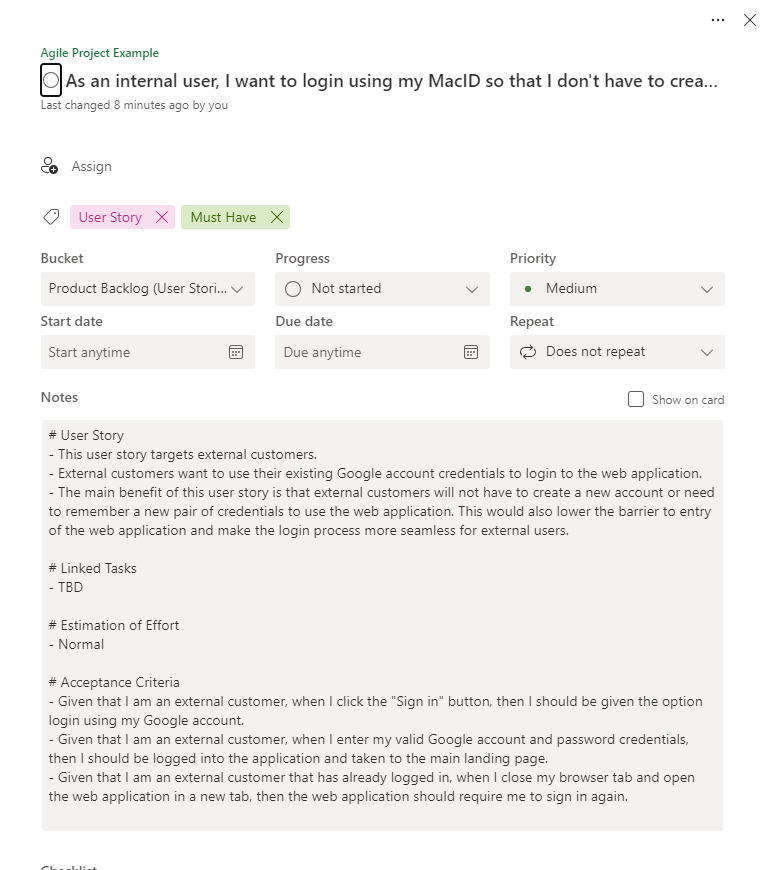
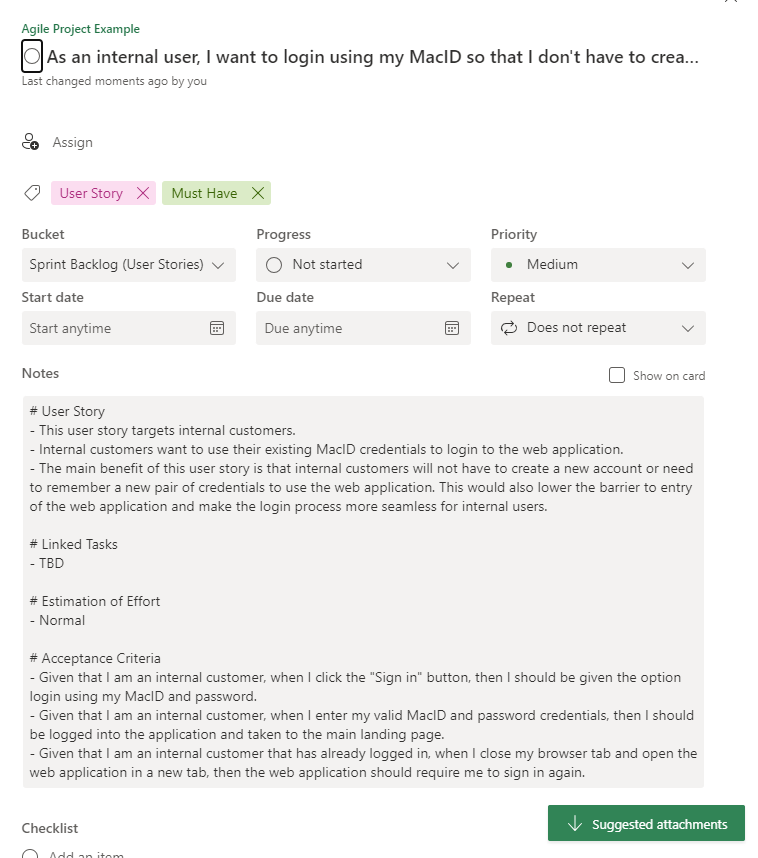
added blurb about GitLab

diff --git a/planner-agile.md b/planner-agile.md
@@ -107,13 +107,13 @@ We recommend that you fill out the body of the user story using the following te
 - Acceptance criteria should use the following format: "Given (how things begin), when (action taken), then (outcome of taking action)."	
 ```
 
-We will add the same MacID SSO user story that we used before as an example:
+We will add the same MacID SSO user story that we used before as an example. The title of the user story is: "As an internal user, I want to login using my MacID so that I don't have to create a separate account." and the body should contain the following:
 
 ```
 # User Story
-- This user story targets external customers.
-- External customers want to use their existing Google account credentials to login to the web application.
-- The main benefit of this user story is that external customers will not have to create a new account or need to remember a new pair of credentials to use the web application. This would also lower the barrier to entry of the web application and make the login process more seamless for external users.
+- This user story targets internal customers.
+- Internal customers want to use their existing MacID credentials to login to the web application.
+- The main benefit of this user story is that internal customers will not have to create a new account or need to remember a new pair of credentials to use the web application. This would also lower the barrier to entry of the web application and make the login process more seamless for internal users.
 
 # Linked Tasks
 - TBD
@@ -122,9 +122,9 @@ We will add the same MacID SSO user story that we used before as an example:
 - Normal
 
 # Acceptance Criteria
-- Given that I am an external customer, when I click the "Sign in" button, then I should be given the option login using my Google account.
-- Given that I am an external customer, when I enter my valid Google account and password credentials, then I should be logged into the application and taken to the main landing page.
-- Given that I am an external customer that has already logged in, when I close my browser tab and open the web application in a new tab, then the web application should require me to sign in again.
+- Given that I am an internal customer, when I click the "Sign in" button, then I should be given the option login using my MacID and password.
+- Given that I am an internal customer, when I enter my valid MacID and password credentials, then I should be logged into the application and taken to the main landing page.
+- Given that I am an internal customer that has already logged in, when I close my browser tab and open the web application in a new tab, then the web application should require me to sign in again.
 ```
 
 Make sure to tag the user story with the **User Story** label as well as a priority label. In this example, we used the **Must Have** label since this user story is a security requirement. You may also want to assign the user story to a developer at this point.

diff --git a/conclusion.md b/conclusion.md
@@ -21,6 +21,14 @@ Throughout this learning module, we learned the basics of the Agile methodology 
 - Agile projects of all sizes have higher success rates and lower challenge and failure rates compared to Waterfall projects of comparable sizes. 
 - The Agile methodology is best suited for teams working on a single project at a time.
 
+We also learned how to implement and use an Agile Board in GitHub Project and Microsoft Planner.
+
+## GitLab
+
+We did not cover creating an Agile Board using the GitLab "Issues Board"  tool because it does not provide enough flexibility to adopt the Agile methodology proposed in this learning module. Containers or lists in the GitLab "Issues Board" must have a set scope i.e., they must share the same label, assignee, milestone or iteration to appear in the same list. This limitation prevents from creating the containers (Product Backlog, Sprint Backlog, Todo, etc.) needed for our recommended Agile Board template and moving issues (user stories/tasks/spikes) through them. Thus, if you are starting a new project and you want to use the Agile methodology covered in this learning module, we recommend opting for GitHub over GitLab since GitHub Projects is much more suited for the creation of an Agile Board.
+
+![gitlab-list](assets/img/gitlab-list.png)
+
 ## References & Additional Resources
 - [Manifesto for Agile Software Development](https://agilemanifesto.org/)
 - [#NoEstimates (Allen Holub) - YouTube](https://www.youtube.com/watch?v=QVBlnCTu9Ms)

diff --git a/github-agile.md b/github-agile.md
@@ -399,7 +399,7 @@ You can create new issues in one of two ways:
 
 We will now create an example user story. For the purposes of this learning module, we will create a user story centered around adding single sign-on using MacID credentials. 
 
-The title of the user story follow the format proposed in the previous section: "# As an internal user, I want to login using my MacID so that I don't have to create a separate account."
+The title of the user story follow the format proposed in the previous section: "As an internal user, I want to login using my MacID so that I don't have to create a separate account."
 
 Next, fill out the body of the user story. The text provided below is an example of the information to include in this section:
 
